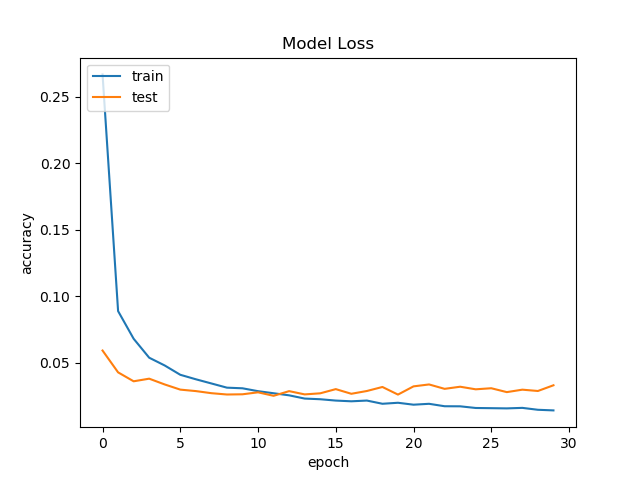
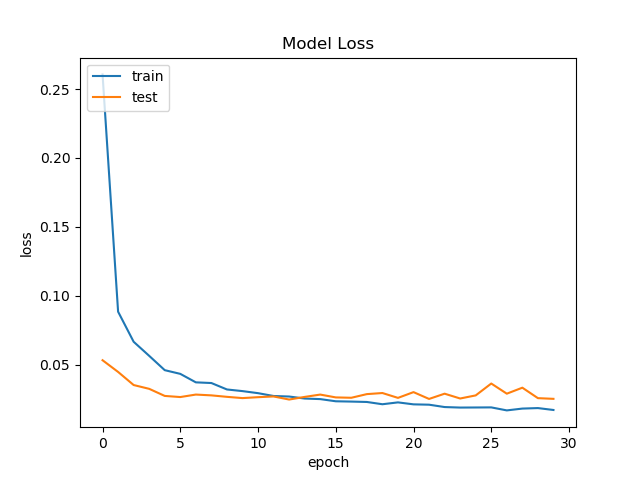
updated parts 5/6, added part 7, as well as corresponding plots

diff --git a/Computer Vision/PA4-hyperparameter_tuning/PA4_Part7.py b/Computer Vision/PA4-hyperparameter_tuning/PA4_Part7.py
@@ -7,12 +7,13 @@ Gets to 99.25% test accuracy after 12 epochs
 
 from __future__ import print_function
 import keras
-from keras.datasets import mnist
+from keras.datasets import mnist, fashion_mnist
 from keras.models import Sequential
 from keras.layers import Dense, Dropout, Flatten
 from keras.layers import Conv2D, MaxPooling2D, AveragePooling2D
 from keras import backend as K
 import matplotlib.pyplot as plt
+import time
 
 batch_size = 128
 num_classes = 10
@@ -22,7 +23,7 @@ epochs = 30
 img_rows, img_cols = 28, 28
 
 # the data, split between train and test sets
-(x_train, y_train), (x_test, y_test) = mnist.load_data()
+(x_train, y_train), (x_test, y_test) = fashion_mnist.load_data()
 
 if K.image_data_format() == 'channels_first':
     x_train = x_train.reshape(x_train.shape[0], 1, img_rows, img_cols)
@@ -46,8 +47,6 @@ y_train = keras.utils.to_categorical(y_train, num_classes)
 y_test = keras.utils.to_categorical(y_test, num_classes)
 
 # custom LeNet-5 model by me
-
-# Maximum pooling version
 model = Sequential()
 model.add(Conv2D(6, kernel_size = (5, 5), activation = 'relu'))
 model.add(MaxPooling2D(pool_size = (2, 2), strides = 2))
@@ -58,20 +57,6 @@ model.add(Dense(120, activation = 'relu'))
 model.add(Dense(84, activation = 'relu'))
 model.add(Dense(10, activation = 'softmax'))
 
-# Average pooling version
-'''
-model = Sequential()
-model.add(Conv2D(6, kernel_size = (5, 5), activation = 'relu'))
-model.add(AveragePooling2D(pool_size = (2, 2), strides = 2))
-model.add(Conv2D(16, kernel_size = (5, 5), activation = 'relu'))
-model.add(AveragePooling2D(pool_size = (2, 2), strides = 2))
-model.add(Flatten())
-model.add(Dense(120, activation = 'relu'))
-model.add(Dense(84, activation = 'relu'))
-model.add(Dense(10, activation = 'softmax'))
-'''
-
-# default, base model
 '''
 model = Sequential()
 model.add(Conv2D(32, kernel_size=(3, 3),
@@ -90,20 +75,70 @@ model.compile(loss=keras.losses.categorical_crossentropy,
               optimizer=keras.optimizers.Adadelta(),
               metrics=['accuracy'])
 
+# training time calculation
+
+lenet_start = time.time()
+
 history = model.fit(x_train, y_train,
           batch_size=batch_size,
           epochs=epochs,
           verbose=1,
           validation_data=(x_test, y_test))
 
+lenet_end = time.time()
+
+print('LeNet-5 Training time on Fashion MNIST: ' + str(lenet_end - lenet_start))
+
 plt.plot(history.history['acc'])
 plt.plot(history.history['val_acc'])
-plt.title('Model Accuracy')
+plt.title('LeNet-5 Accuracy (Fashion MNIST)')
 plt.xlabel('epoch')
 plt.ylabel('accuracy')
 plt.legend(['train', 'test'], loc = 'upper left')
 plt.show()
 
 score = model.evaluate(x_test, y_test, verbose=0)
+print('Test loss:', score[0])
+print('Test accuracy:', score[1])
+
+
+######################### now using the base model on Fashion MNIST ####################
+model = Sequential()
+model.add(Conv2D(32, kernel_size = (3, 3), activation = 'relu', input_shape = input_shape))
+model.add(Conv2D(64, (3, 3), activation = 'relu'))
+model.add(MaxPooling2D(pool_size = (2, 2)))
+model.add(Dropout(0.25))
+model.add(Flatten())
+model.add(Dense(128, activation = 'relu'))
+model.add(Dropout(0.5))
+model.add(Dense(10, activation = 'softmax'))
+
+model.compile(loss = keras.losses.categorical_crossentropy,
+              optimizer = keras.optimizers.Adadelta(), 
+              metrics = ['accuracy'])
+
+# training time calculation
+
+base_start = time.time()
+
+history = model.fit(x_train, y_train, 
+                    batch_size = batch_size, 
+                    epochs = epochs, 
+                    verbose = 1, 
+                    validation_data = (x_test, y_test))
+
+base_end = time.time()
+
+print('Base model Training time on Fashion MNIST: ' + str(base_end - base_start))
+
+plt.plot(history.history['acc'])
+plt.plot(history.history['val_acc'])
+plt.title('Base model accuracy (Fashion MNIST)')
+plt.xlabel('epoch')
+plt.ylabel('accuracy')
+plt.legend(['train', 'test'], loc = 'upper left')
+plt.show()
+
+score = model.evaluate(x_test, y_test, verbose = 0)
 print('Test loss:', score[0])
 print('Test accuracy:', score[1])

diff --git a/Computer Vision/PA4-hyperparameter_tuning/PA4_Part5.py b/Computer Vision/PA4-hyperparameter_tuning/PA4_Part5.py
@@ -71,7 +71,7 @@ plt.plot(history.history['loss'])
 plt.plot(history.history['val_loss'])
 plt.title('Model Loss')
 plt.xlabel('epoch')
-plt.ylabel('accuracy')
+plt.ylabel('loss')
 plt.legend(['train', 'test'], loc = 'upper left')
 plt.show()
 
